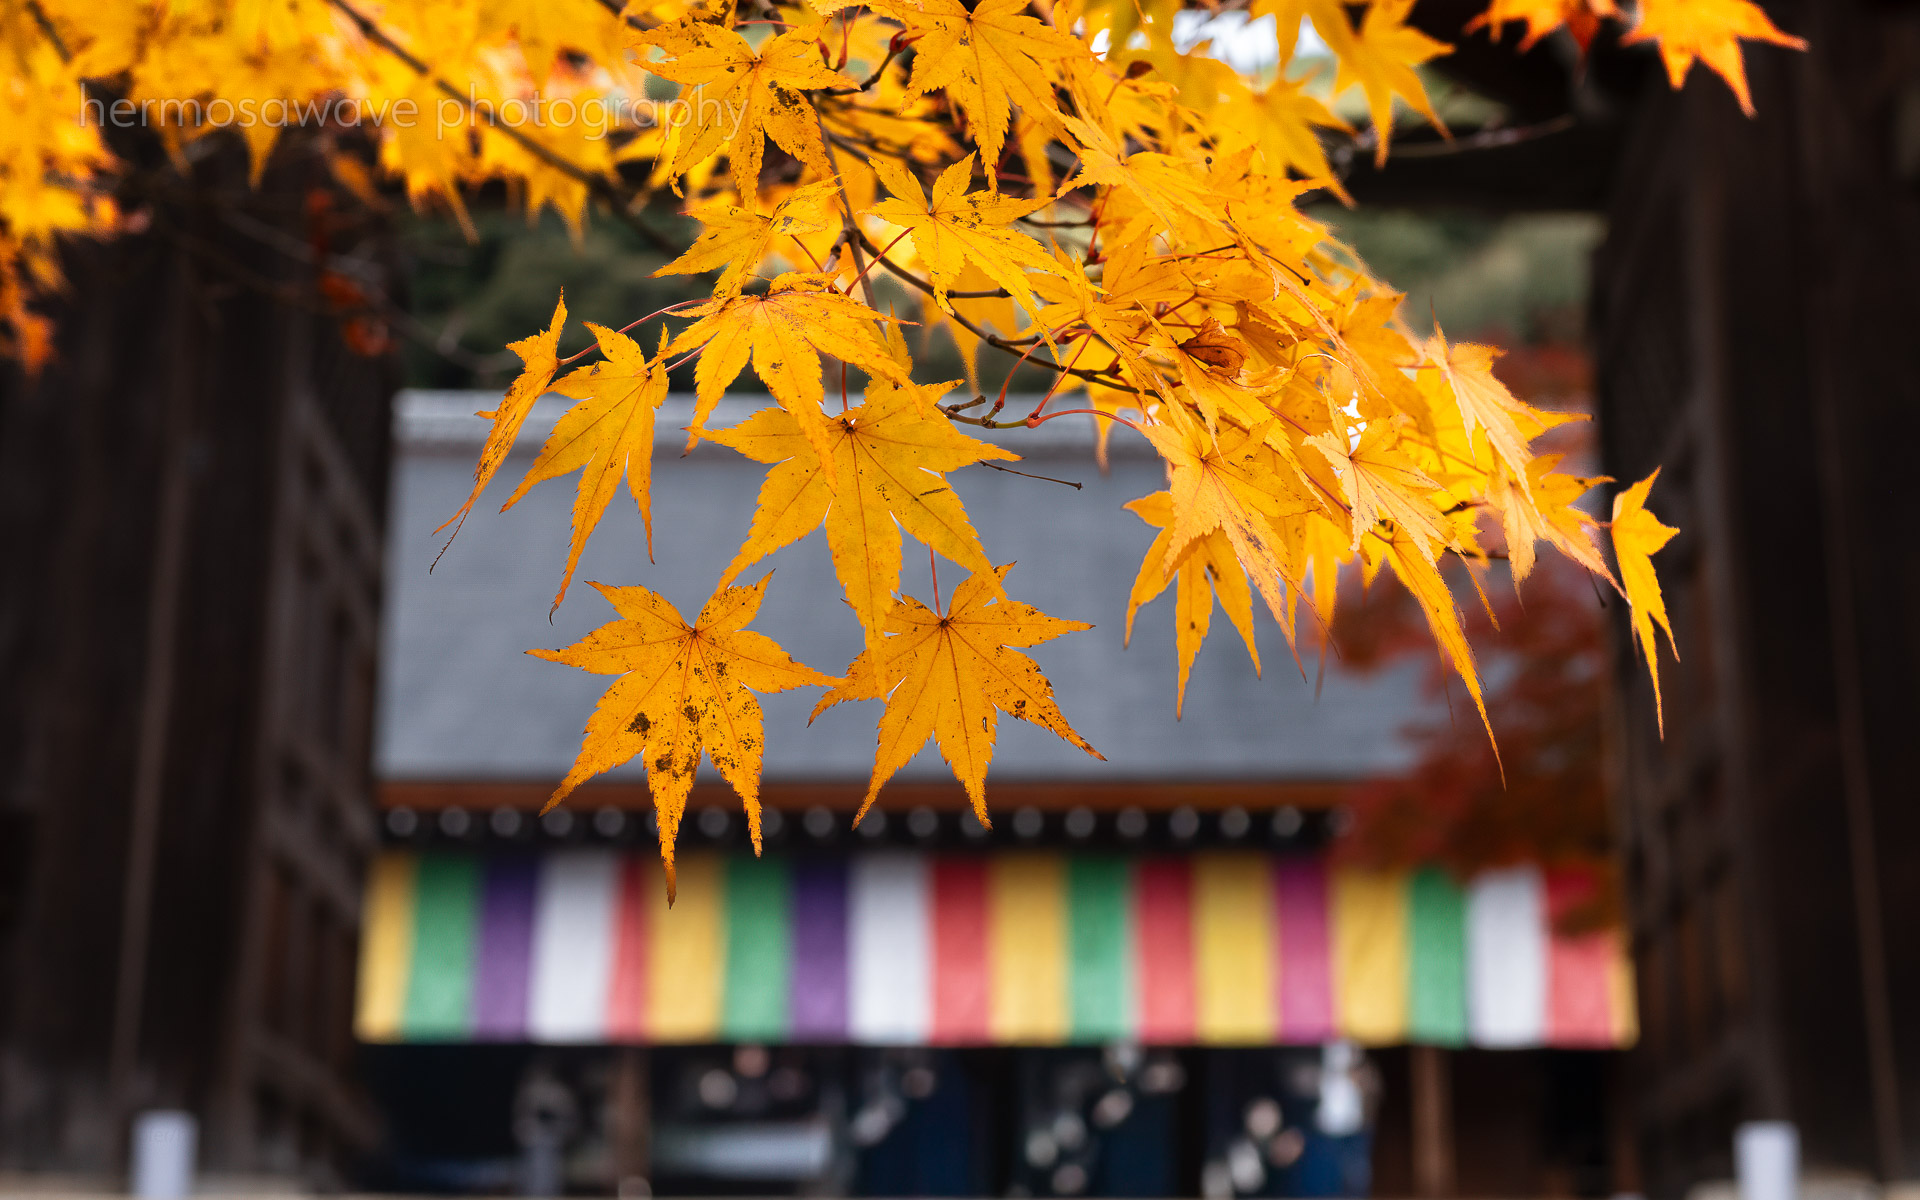
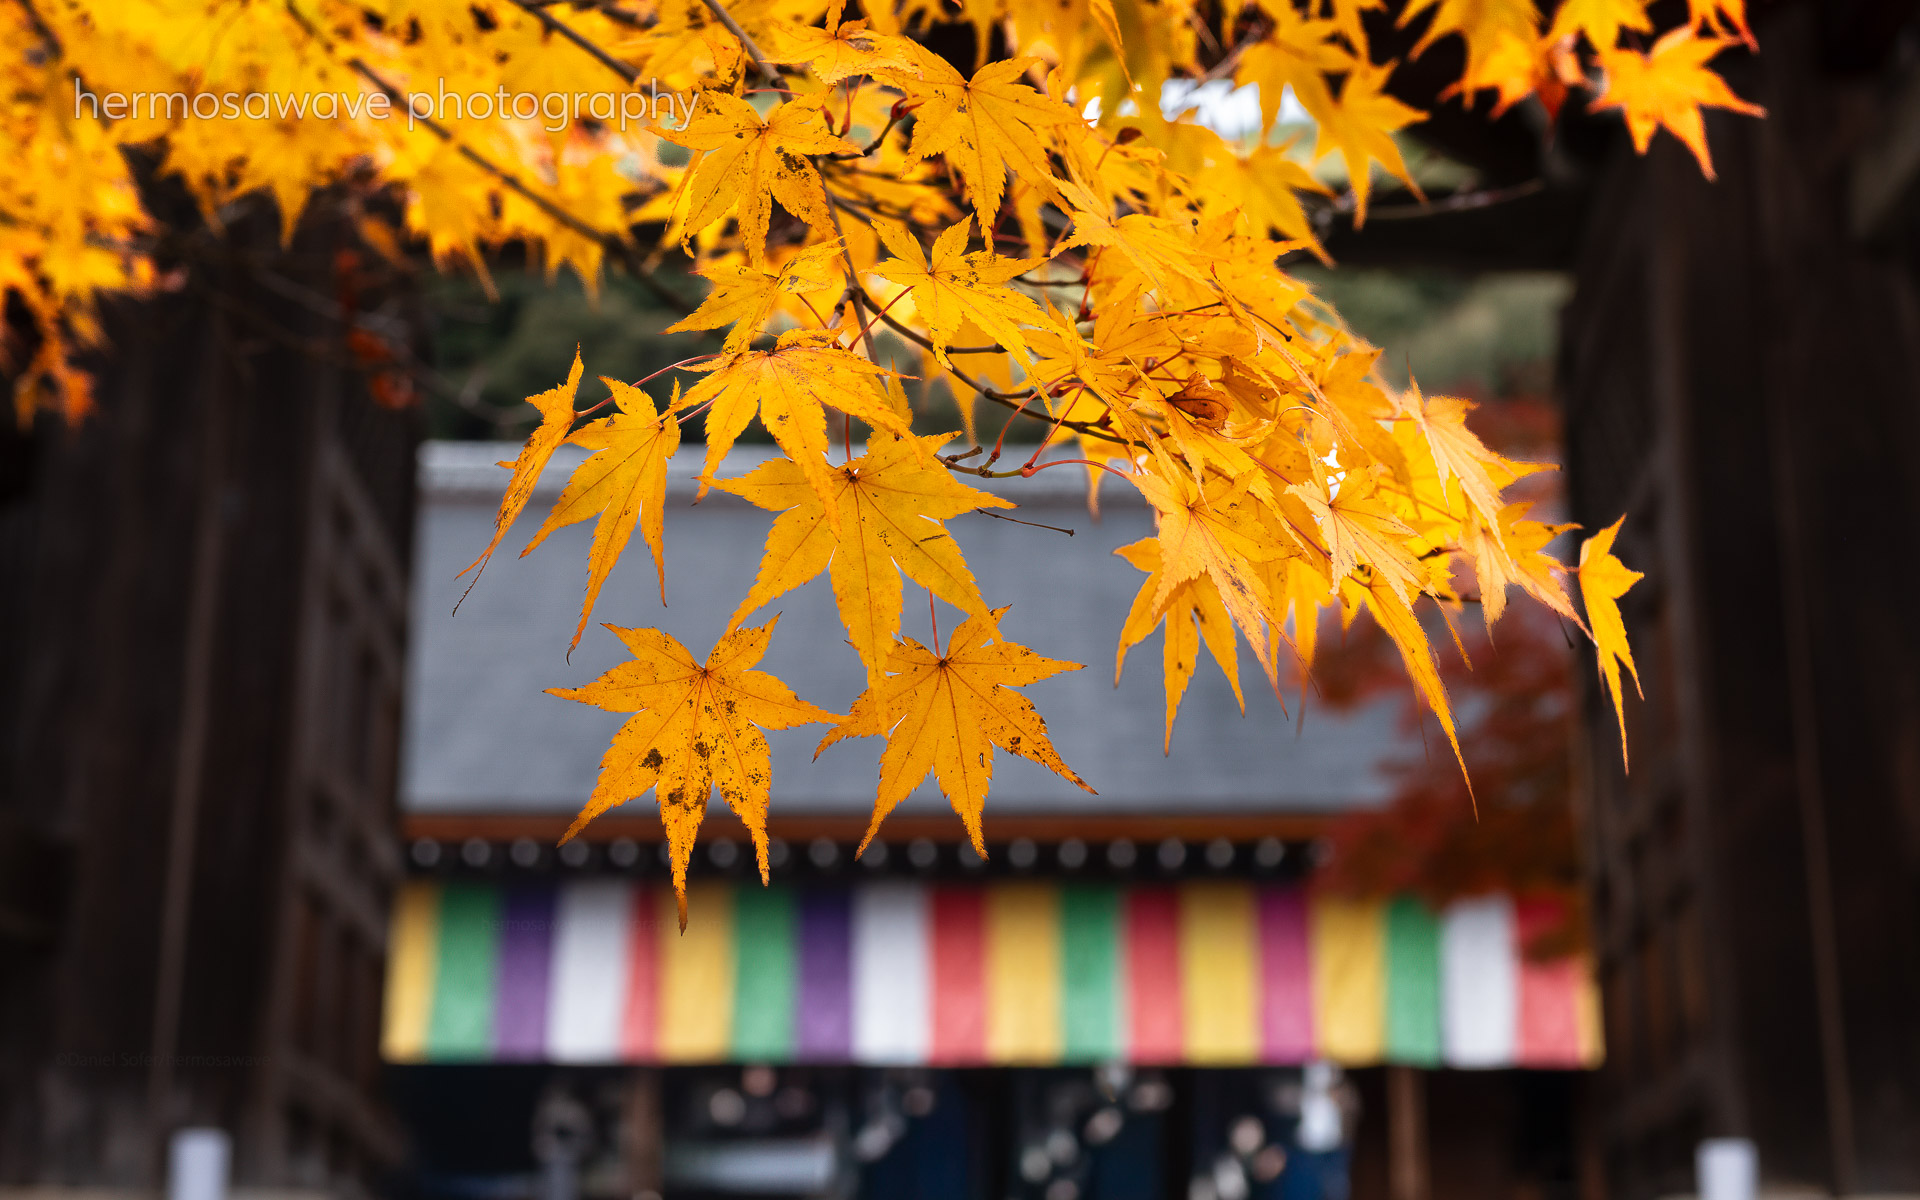
Part 2 with japanese

diff --git a/261127/index.html b/261127/index.html
@@ -3,7 +3,7 @@
   <head>
     <meta charset="utf-8">
 	<meta name="viewport" id="viewport" content="width=device-width, initial-scale=1.0, minimum-scale=1.0,maximum-scale=10.0, minimal-ui" />
-    <title>Hermosawave Photography: Maple Leaf Day</title>
+    <title>Hermosawave Photography: Maple Leaf Day・もみじの日</title>
 
     <!-- Typekit Asian Font Loader -->
 <!-- 
@@ -102,7 +102,7 @@ font-family: ryo-gothic-plusn, sans-serif; (200, 400, 700)
          </div>
          <a href="/261126/">
 
-            <img id="img1"  src="/assets/images/2026/2611_RX101801_edit.jpg" alt="Maple Leaf Day" title="Next photo >>"/>
+            <img id="img1"  src="/assets/images/2026/2611_RX101801_edit.jpg" alt="Maple Leaf Day・もみじの日" title="Next photo >>"/>
          </a>
 
     </div>
@@ -111,13 +111,23 @@ font-family: ryo-gothic-plusn, sans-serif; (200, 400, 700)
       <div class="description horizontal ">
           <p class="subtitle">Hermosawave Picture of the Day</p>
         <h3>Friday, November 27, 2026</h3>
-	<h2>Maple Leaf Day</h2>
+	<h2>Maple Leaf Day・もみじの日</h2>
 	   <div class="text">
          <p class="en">
-Yellow maple leaves hang over the entrance to Nison-in Temple.
+Maple leaves in front of the Imperial Envoy Gate at Nison-in Temple.
 </p>
 <p class="jp">
+二尊院の勅使門の前に色づくもみじ。
 </p>
+
+<div class="subimagegroup">
+<div class="subimage">
+   <img src="/assets/images/2026/2611_RX101790_edit.jpg"/>
+</div>
+<div class="subimage">
+   <img src="/assets/images/2026/2611_RX101797_edit.jpg"/>
+</div>
+</div>
 
 
         </div>
@@ -240,7 +250,7 @@ More GPS info: https://gis.stackexchange.com/questions/136925/how-to-parse-exif-
          </div>
 
        <p class="en">
-<a href="/studioprints/index.php?picturecode=261127&date=November 27, 2026 &title=Maple Leaf Day&image=/assets/images/2026/2611_RX101801_edit.jpg"><em>Buy a print of this picture...</em></a> 
+<a href="/studioprints/index.php?picturecode=261127&date=November 27, 2026 &title=Maple Leaf Day・もみじの日&image=/assets/images/2026/2611_RX101801_edit.jpg"><em>Buy a print of this picture...</em></a> 
 </p>
 
    </div> <!-- end description -->

diff --git a/latest/index.html b/latest/index.html
@@ -100,19 +100,29 @@ font-family: ryo-gothic-plusn, sans-serif; (200, 400, 700)
 
      <div class="mainimage">
          <a href="/261126/">
-             <img id="img1"  src="/assets/images/2026/2611_RX101801_edit.jpg" alt="Maple Leaf Day" title="Next photo >>"/>
+             <img id="img1"  src="/assets/images/2026/2611_RX101801_edit.jpg" alt="Maple Leaf Day・もみじの日" title="Next photo >>"/>
          </a>
     </div>
     <div class="description  ">
             <p class="subtitle">Hermosawave Picture of the Day</p>
          <h3>Friday, November 27, 2026</h3>
-	<h2>Maple Leaf Day</h2>
+	<h2>Maple Leaf Day・もみじの日</h2>
  	   <div class="text">
  	      <p class="en">
-Yellow maple leaves hang over the entrance to Nison-in Temple.
+Maple leaves in front of the Imperial Envoy Gate at Nison-in Temple.
 </p>
 <p class="jp">
+二尊院の勅使門の前に色づくもみじ。
 </p>
+
+<div class="subimagegroup">
+<div class="subimage">
+   <img src="/assets/images/2026/2611_RX101790_edit.jpg"/>
+</div>
+<div class="subimage">
+   <img src="/assets/images/2026/2611_RX101797_edit.jpg"/>
+</div>
+</div>
 
 
        </div>
@@ -207,7 +217,7 @@ Yellow maple leaves hang over the entrance to Nison-in Temple.
               <p>PictureCode: 261127</p>
 
 <p class="en">
-              <a href="/studioprints/index.php?picturecode=261127&date=November 27, 2026 &title=Maple Leaf Day&image=/assets/images/2026/2611_RX101801_edit.jpg"> <em>Buy a print of this picture...</em></a>
+              <a href="/studioprints/index.php?picturecode=261127&date=November 27, 2026 &title=Maple Leaf Day・もみじの日&image=/assets/images/2026/2611_RX101801_edit.jpg"> <em>Buy a print of this picture...</em></a>
               </p>
 
    </div> <!-- end description -->

diff --git a/thumbnails/index.html b/thumbnails/index.html
@@ -147,10 +147,10 @@ font-family: ryo-gothic-plusn, sans-serif; (200, 400, 700)
     
         <div class="thumbnail">
             <div class="thumbnailimage">
-            <a href="/261127/"><img src="/assets/images/2026/2611_RX101801_edit.jpg" alt="Maple Leaf Day" title="Maple Leaf Day: Click to view larger・クリックして拡大表示"/></a>
+            <a href="/261127/"><img src="/assets/images/2026/2611_RX101801_edit.jpg" alt="Maple Leaf Day・もみじの日" title="Maple Leaf Day・もみじの日: Click to view larger・クリックして拡大表示"/></a>
              </div>
 
-            <a href="/261127/">November 27, 2026<br/>Maple Leaf Day</a>
+            <a href="/261127/">November 27, 2026<br/>Maple Leaf Day・もみじの日</a>
          </div>
       
         <div class="thumbnail">

diff --git a/subjects/index.html b/subjects/index.html
@@ -7328,7 +7328,7 @@ font-family: ryo-gothic-plusn, sans-serif; (200, 400, 700)
 	<h3>Foliage</h3>
   <ul>
 	
-	  <li><a href="/261127/">Maple Leaf Day</a></li>
+	  <li><a href="/261127/">Maple Leaf Day・もみじの日</a></li>
 	
 	  <li><a href="/261126/">Oi River・大堰川</a></li>
 	
@@ -17641,7 +17641,7 @@ font-family: ryo-gothic-plusn, sans-serif; (200, 400, 700)
 	<h3>Temples</h3>
   <ul>
 	
-	  <li><a href="/261127/">Maple Leaf Day</a></li>
+	  <li><a href="/261127/">Maple Leaf Day・もみじの日</a></li>
 	
 	  <li><a href="/261125/">Joju-ji Temple・浄住寺</a></li>
 	

diff --git a/categories/arashiyama.html b/categories/arashiyama.html
@@ -103,7 +103,7 @@ font-family: ryo-gothic-plusn, sans-serif; (200, 400, 700)
         <a href="/261127/"><img src="/assets/images/2026/2611_RX101801_edit.jpg" title="Click to view larger・クリックして拡大表示"/></a>
          </div>
            
-        <a href="/261127/">November 27, 2026<br/>Maple Leaf Day</a>
+        <a href="/261127/">November 27, 2026<br/>Maple Leaf Day・もみじの日</a>
      </div>
     
     <div class="thumbnail">

diff --git a/categories/index.html b/categories/index.html
@@ -111,7 +111,7 @@ font-family: ryo-gothic-plusn, sans-serif; (200, 400, 700)
         <a href="/categories/arashiyama.html"><img src="/assets/images/2026/2611_RX101801_edit.jpg" title="Click to view photos of Arashiyama"/></a>
          </div>
            
-        <a href="/261127/">November 27, 2026<br/>Maple Leaf Day</a>
+        <a href="/261127/">November 27, 2026<br/>Maple Leaf Day・もみじの日</a>
      </div>
     
 </div>   

diff --git a/261126/index.html b/261126/index.html
@@ -253,7 +253,7 @@ More GPS info: https://gis.stackexchange.com/questions/136925/how-to-parse-exif-
    <div class="post-nav">
         
         <div>
-        <a href="/261127/">&#8592;&nbsp; Nov&nbsp;27: Maple Leaf Day</a>
+        <a href="/261127/">&#8592;&nbsp; Nov&nbsp;27: Maple Leaf Day・もみじの日</a>
         </div>
         <div>
                 &nbsp; <a href="/latest/">Latest</a> &nbsp;
